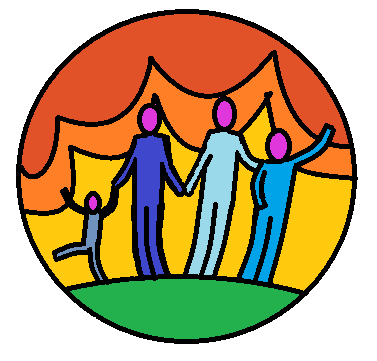
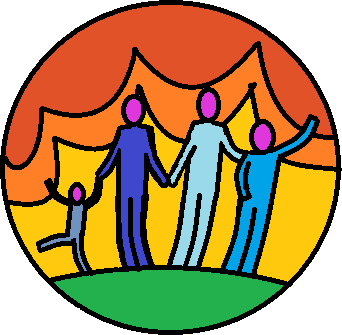
Changed badge+profile picture sizes and added randomized badges to ranking

diff --git a/flaskr/templates/ranking/ranking_groups.html b/flaskr/templates/ranking/ranking_groups.html
@@ -4,43 +4,51 @@
 {% block header %}Ranking{% endblock %}
 
 {% macro nav_rank_tab(refname, name, active=false) -%}
-  {% if active %}
-    {% set active_string = " active" %}
-  {% endif %}
+{% if active %}
+{% set active_string = " active" %}
+{% endif %}
 <a class="nav-item nav-link{{active_string}}" role="tab" id="nav-rank-{{ refname }}-tab" data-toggle="tab" href="#nav-rank-{{ refname }}" aria-controls="nav-rank-{{ refname }}" aria-selected="{{active}}">{{ name }}</a>
 {%- endmacro %}
 
 {% macro nav_rank_pane(refname, active=false) -%}
-  {% if active %}
-    {% set active_string = " show active" %}
-  {% endif %}
+{% if active %}
+{% set active_string = " show active" %}
+{% endif %}
 <div class="tab-pane{{active_string}}" id="nav-rank-{{ refname}}" role="tabpanel" aria-labelledby="nav-rank-{{ refname }}-tab">
     {{ caller() }}
 </div>
 {%- endmacro %}
 
-{% macro ranking_table(group) -%}
+{% macro ranking_table(group, badges) -%}
 <div class="table-responsive">
     <table class="table table-striped table-borderless table-hover">
-	<tbody>
-	    {% for hh in group.ranking() %}
-	    <tr>
-		<th class="align-middle text-center px-0" scope="row">
-		    <h1>{{ loop.index }}</h1>
-		</th>
-		<td class="align-middle text-center px-0">
-		    <img class="img-tumbnail rounded" src="{{url_for('static', filename='images/profile/pp-'+str(hh['id'])+'.png') }}">
-		</td>
-		<td class="align-middle">
-		    <h1>{{ hh['name'] }}</h1>
-		</td>
-		<td class="align-middle"></td>
-		<td class="align-middle">
-		  <img src="{{ url_for('static', filename=get_badge_by_rank(hh['score'])) }}">
-		</td>
-	    </tr>
-	    {% endfor %}
-	</tbody>
+	      <tbody>
+	          {% for hh in group.ranking() %}
+            {% set rank = loop.index0 %}
+	          <tr>
+		            <th class="align-middle text-center px-0" scope="row">
+		                <h1>{{ loop.index }}</h1>
+		            </th>
+		            <td class="align-middle text-center px-0">
+		                <img class="img-tumbnail rounded" src="{{url_for('static', filename='images/profile/lpp-'+str(hh['id'])+'.png') }}" width="75" height="75">
+		            </td>
+		            <td class="align-middle">
+		                <h1>{{ hh['name'] }}</h1>
+		            </td>
+<!-- Badges here -->
+                {% for person, badge in badges %}
+                <td class="align-middle">
+                    {% if rank == person %}
+		                <img src="{{ url_for('static', filename=badge) }}">
+                    {% endif %}
+                </td>
+                {% endfor %}
+		            <td class="align-middle">
+		                <img src="{{ url_for('static', filename=get_badge_by_rank(hh['score'])) }}">
+		            </td>
+	          </tr>
+	          {% endfor %}
+	      </tbody>
     </table>
 </div>
 {%- endmacro %}
@@ -48,49 +56,49 @@
 
 
 {% block content %}
-  {% set active=groups|length < 1 %}
-  <nav>
+{% set active=groups|length < 1 %}
+<nav>
     <div class="nav nav-tabs" id="ranking-tab" role="tablist">
-      {% for group in groups %}
-	{% if loop.index == 1 %}
-	  {{ nav_rank_tab(group.ref|string + group.name, group.name, active=true) }}	
-	{% else %}
-	  {{ nav_rank_tab(group.ref|string + group.name, group.name) }}
-	{% endif  %}
-      {% endfor %}
+        {% for group, badge in groups %}
+	      {% if loop.index == 1 %}
+	      {{ nav_rank_tab(group.ref|string + group.name, group.name, active=true) }}
+	      {% else %}
+	      {{ nav_rank_tab(group.ref|string + group.name, group.name) }}
+	      {% endif  %}
+        {% endfor %}
 
-      {{ nav_rank_tab("new", "+", active=active) }}
+        {{ nav_rank_tab("new", "+", active=active) }}
     </div>
-  </nav>
-  <div class="tab-content" id="ranking-tabContent">    
-    {% for group in groups %}
-      {% if loop.index == 1 %}
-	{% call nav_rank_pane(group.ref|string + group.name, active=true) %}
-	  {{ ranking_table(group) }}
-	{% endcall %}
-      {% else %}
-	{% call nav_rank_pane(group.ref|string + group.name) %}
-	  {{ ranking_table(group) }}
-	{% endcall %}
-      {% endif  %}
+</nav>
+<div class="tab-content" id="ranking-tabContent">
+    {% for group, badge in groups %}
+    {% if loop.index == 1 %}
+	  {% call nav_rank_pane(group.ref|string + group.name, active=true) %}
+	  {{ ranking_table(group, badge) }}
+	  {% endcall %}
+    {% else %}
+	  {% call nav_rank_pane(group.ref|string + group.name) %}
+	  {{ ranking_table(group, badge) }}
+	  {% endcall %}
+    {% endif  %}
     {% endfor %}
- 
-    {% call nav_rank_pane("new", active=active) %} 
-      <form method="post" class="my-3">
-          <div class="form-group">
-              <label for="group-name">Group Name</label>
-              <input name="group-name" type="text" placeholder="Name..." />
-          </div>
-          <div class="form-group">
-              <label for="friends-select">Select Friends (ctrl)</label>
-              <select class="form-control custom-select" name="friends-select" multiple>
-                  {% for friend in friends %}
-                  <option value="{{ friend['id'] }}">{{friend['name']}}</option>
-                  {% endfor %}
-              </select>
-          </div>
-          <button type="submit" class="btn btn-primary">Make Group</button>
-      </form>
-    {% endcall %} 
-  </div>
+
+    {% call nav_rank_pane("new", active=active) %}
+    <form method="post" class="my-3">
+        <div class="form-group">
+            <label for="group-name">Group Name</label>
+            <input name="group-name" type="text" placeholder="Name..." />
+        </div>
+        <div class="form-group">
+            <label for="friends-select">Select Friends (ctrl)</label>
+            <select class="form-control custom-select" name="friends-select" multiple>
+                {% for friend in friends %}
+                <option value="{{ friend['id'] }}">{{friend['name']}}</option>
+                {% endfor %}
+            </select>
+        </div>
+        <button type="submit" class="btn btn-primary">Make Group</button>
+    </form>
+    {% endcall %}
+</div>
 {% endblock %}

diff --git a/flaskr/ranking.py b/flaskr/ranking.py
@@ -4,7 +4,7 @@ File for ranking pages
 
 from flask import Blueprint, render_template, g, request, flash
 from flaskr.db import get_db
-from flaskr.badge import get_badge_by_rank
+from flaskr.badge import get_badge_by_rank, randomize_other_badges
 from flaskr.auth import login_required
 from flaskr.groups import query_groups
 
@@ -34,6 +34,7 @@ def rank_groups():
         if error is not None:
             flash(error)
     groups = query_groups(user_id)
+    badges = [randomize_other_badges(len(g.members)+1) for g in groups]
 
     friends = db.execute(
         """SELECT id, name FROM Users
@@ -44,6 +45,6 @@ def rank_groups():
     ).fetchall()
     return render_template("ranking/ranking_groups.html",
                            friends=friends,
-                           groups=groups,
+                           groups=list(zip(groups, badges)),
                            str=str,
                            get_badge_by_rank=get_badge_by_rank)

diff --git a/flaskr/badge.py b/flaskr/badge.py
@@ -1,12 +1,19 @@
 import os
+from random import randint
 
 images = {
-    80: 'im-6-small.png',
-    60: 'im-8-small.png',
-    40: 'im-4-small.png',
-    20: 'im-7-small.png',
-    0:  'im-3-small.png',
+    80: 'im-6-small-2.png',
+    60: 'im-8-small-2.png',
+    40: 'im-4-small-2.png',
+    20: 'im-7-small-2.png',
+    0:  'im-3-small-2.png',
 }
+
+badges = [
+    'im-1-small-2.png',
+    'im-2-small-2.png',
+    'im-5-small-2.png'
+]
 
 base_path = 'images/badges'
 
@@ -21,3 +28,6 @@ def get_badge_by_rank(score):
     if score > 20:
         return os.path.join(base_path, images[20])
     return os.path.join(base_path, images[0])
+
+def randomize_other_badges(num):
+    return [(randint(0, num-1), os.path.join(base_path, badge)) for badge in badges]

diff --git a/flaskr/groups.py b/flaskr/groups.py
@@ -2,7 +2,6 @@ from flaskr.db import get_db
 
 
 class Group:
-
     def __init__(self, user_id, group_id, members=None, name=None):
         self.owner = user_id
         self.ref = group_id
